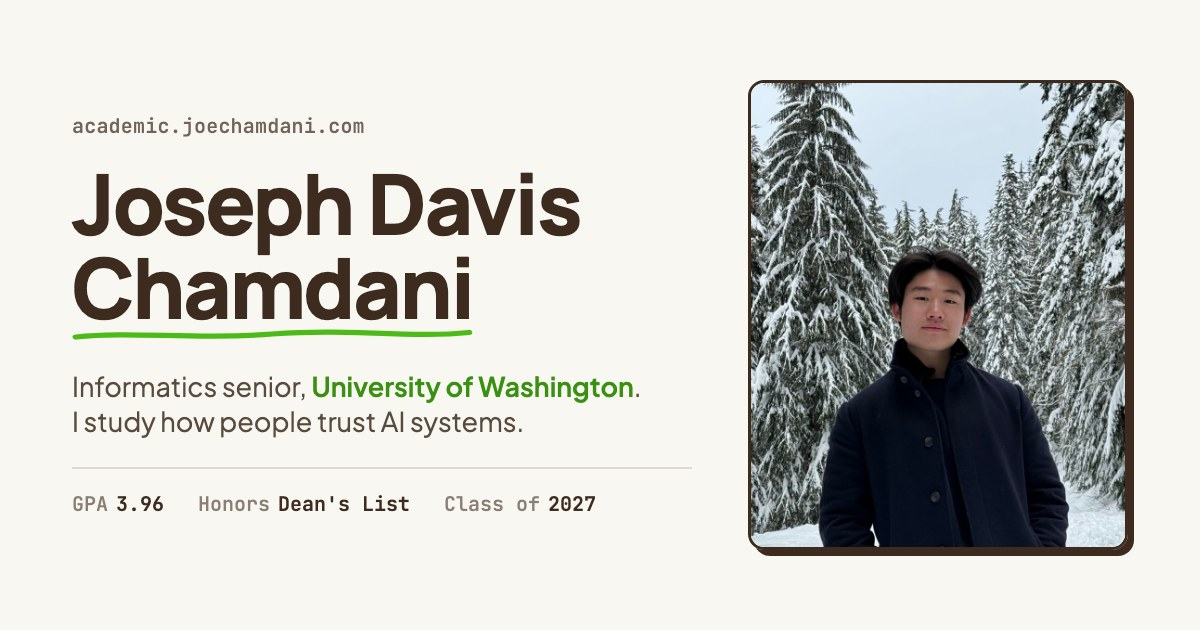
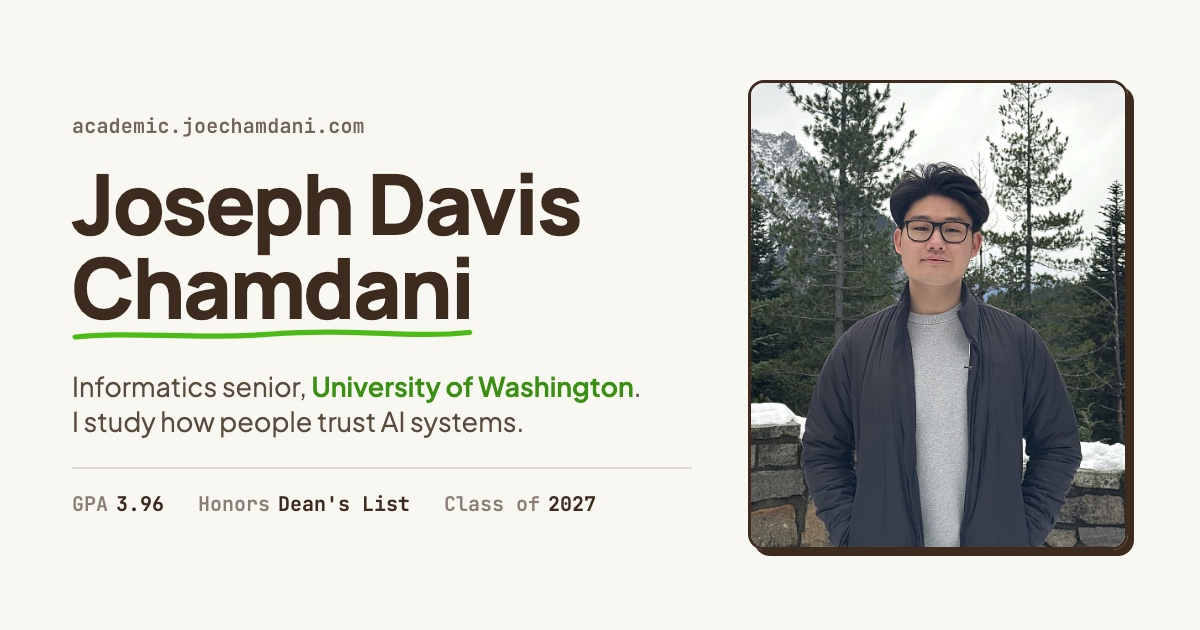
Hero and share card: new sharper portrait

Changed region(s): [[0.6167, 0.1206, 0.9558, 0.8746]]

diff --git a/index.html b/index.html
@@ -75,7 +75,7 @@
           "@type": "Person",
           "name": "Joseph Davis Chamdani",
           "alternateName": ["Joseph Chamdani", "Joe Chamdani", "Chamdani"],
-          "image": "https://academic.joechamdani.com/Joseph_Chamdani.jpg",
+          "image": "https://academic.joechamdani.com/joseph-profile.jpg",
           "url": "https://academic.joechamdani.com/",
           "mainEntityOfPage": "https://joechamdani.com/",
           "sameAs": [
@@ -228,7 +228,7 @@
           </nav>
         </header>
 
-        <section id="home" class="min-h-screen flex items-center justify-center px-6 pt-28 pb-20 relative bg-paper dark:bg-[#141B2D]"><div class="max-w-7xl w-full mx-auto relative z-10"><div class="grid lg:grid-cols-[1.25fr_1fr] gap-14 lg:gap-16 items-center"><div class="text-left" style="opacity: 1; transform: none;"><p class="font-mono text-sm text-espresso/70 dark:text-slate-400 mb-5">Academic portfolio · UW Information School</p><h1 class="text-5xl md:text-7xl font-heading font-extrabold text-espresso dark:text-slate-100 leading-[1.02] tracking-tight">Joseph Davis <span class="relative inline-block">Chamdani<svg class="absolute -bottom-2 left-0 w-full h-3" viewBox="0 0 200 12" fill="none" xmlns="http://www.w3.org/2000/svg" preserveAspectRatio="none"><path d="M2 8C30 4 60 10 100 6C140 2 170 9 198 5" class="stroke-court dark:stroke-[#60A5FA] transition-colors duration-300" stroke-width="3" stroke-linecap="round" stroke-linejoin="round"></path></svg></span></h1><p class="mt-7 text-xl md:text-2xl text-espresso/80 dark:text-slate-300 leading-snug">Informatics senior at the <a href="https://www.washington.edu" target="_blank" rel="noopener noreferrer" class="text-court-dark dark:text-[#60A5FA] hover:text-court dark:hover:text-[#93C5FD] font-semibold underline decoration-2 decoration-court/50 dark:decoration-[#60A5FA]/50 underline-offset-4 transition-colors">University of Washington</a>, Class of 2027.</p><p class="mt-4 text-lg leading-relaxed text-espresso/70 dark:text-slate-400 max-w-xl">I study how people trust AI systems, and build tools that make AI safer and institutions easier to navigate. 3.96 GPA, on the Dean's List every quarter.</p><div class="mt-9 flex flex-col sm:flex-row gap-4"><a href="#research" class="btn-brutal inline-flex items-center justify-center gap-2.5 group"><svg xmlns="http://www.w3.org/2000/svg" width="24" height="24" viewBox="0 0 24 24" fill="none" stroke="currentColor" stroke-width="2" stroke-linecap="round" stroke-linejoin="round" class="lucide lucide-flask-conical h-5 w-5 transition-transform group-hover:-rotate-12"><path d="M10 2v7.527a2 2 0 0 1-.211.896L4.72 20.55a1 1 0 0 0 .9 1.45h12.76a1 1 0 0 0 .9-1.45l-5.069-10.127A2 2 0 0 1 14 9.527V2"></path><path d="M8.5 2h7"></path><path d="M7 16h10"></path></svg>View research</a><a href="media/resume.pdf" target="_blank" rel="noopener noreferrer" class="btn-brutal-outline inline-flex items-center justify-center gap-2.5 group"><svg xmlns="http://www.w3.org/2000/svg" width="24" height="24" viewBox="0 0 24 24" fill="none" stroke="currentColor" stroke-width="2" stroke-linecap="round" stroke-linejoin="round" class="lucide lucide-download h-5 w-5 transition-transform group-hover:translate-y-0.5"><path d="M21 15v4a2 2 0 0 1-2 2H5a2 2 0 0 1-2-2v-4"></path><polyline points="7 10 12 15 17 10"></polyline><line x1="12" x2="12" y1="15" y2="3"></line></svg>Download resume</a><a href="https://orcid.org/0009-0003-3880-8443" target="_blank" rel="noopener noreferrer" class="link-underline inline-flex items-center justify-center gap-1.5 self-center px-2 font-mono text-sm font-semibold text-espresso/80 dark:text-slate-300">ORCID<svg xmlns="http://www.w3.org/2000/svg" width="24" height="24" viewBox="0 0 24 24" fill="none" stroke="currentColor" stroke-width="2" stroke-linecap="round" stroke-linejoin="round" class="lucide lucide-arrow-up-right h-4 w-4"><path d="M7 7h10v10"></path><path d="M7 17 17 7"></path></svg></a></div></div><div class="flex justify-center lg:justify-end" style="opacity: 1; transform: none;"><div class="relative"><div class="relative w-72 h-[22rem] md:w-[22rem] md:h-[27rem] rounded-xl overflow-hidden border-2 border-espresso dark:border-white/15 shadow-brutal dark:shadow-none"><img src="/Joseph_Chamdani.jpg" alt="Joseph Davis Chamdani" class="h-full w-full object-cover object-top" fetchpriority="high"></div><p class="mt-3 flex items-center gap-2 font-mono text-xs text-espresso/70 dark:text-slate-400"><img src="/logos/UW_Logo.png" alt="" class="h-5 w-5 rounded-full bg-white p-0.5">BS Informatics · Seattle, WA · 2025 to 2027</p></div></div></div></div></section>
+        <section id="home" class="min-h-screen flex items-center justify-center px-6 pt-28 pb-20 relative bg-paper dark:bg-[#141B2D]"><div class="max-w-7xl w-full mx-auto relative z-10"><div class="grid lg:grid-cols-[1.25fr_1fr] gap-14 lg:gap-16 items-center"><div class="text-left" style="opacity: 1; transform: none;"><p class="font-mono text-sm text-espresso/70 dark:text-slate-400 mb-5">Academic portfolio · UW Information School</p><h1 class="text-5xl md:text-7xl font-heading font-extrabold text-espresso dark:text-slate-100 leading-[1.02] tracking-tight">Joseph Davis <span class="relative inline-block">Chamdani<svg class="absolute -bottom-2 left-0 w-full h-3" viewBox="0 0 200 12" fill="none" xmlns="http://www.w3.org/2000/svg" preserveAspectRatio="none"><path d="M2 8C30 4 60 10 100 6C140 2 170 9 198 5" class="stroke-court dark:stroke-[#60A5FA] transition-colors duration-300" stroke-width="3" stroke-linecap="round" stroke-linejoin="round"></path></svg></span></h1><p class="mt-7 text-xl md:text-2xl text-espresso/80 dark:text-slate-300 leading-snug">Informatics senior at the <a href="https://www.washington.edu" target="_blank" rel="noopener noreferrer" class="text-court-dark dark:text-[#60A5FA] hover:text-court dark:hover:text-[#93C5FD] font-semibold underline decoration-2 decoration-court/50 dark:decoration-[#60A5FA]/50 underline-offset-4 transition-colors">University of Washington</a>, Class of 2027.</p><p class="mt-4 text-lg leading-relaxed text-espresso/70 dark:text-slate-400 max-w-xl">I study how people trust AI systems, and build tools that make AI safer and institutions easier to navigate. 3.96 GPA, on the Dean's List every quarter.</p><div class="mt-9 flex flex-col sm:flex-row gap-4"><a href="#research" class="btn-brutal inline-flex items-center justify-center gap-2.5 group"><svg xmlns="http://www.w3.org/2000/svg" width="24" height="24" viewBox="0 0 24 24" fill="none" stroke="currentColor" stroke-width="2" stroke-linecap="round" stroke-linejoin="round" class="lucide lucide-flask-conical h-5 w-5 transition-transform group-hover:-rotate-12"><path d="M10 2v7.527a2 2 0 0 1-.211.896L4.72 20.55a1 1 0 0 0 .9 1.45h12.76a1 1 0 0 0 .9-1.45l-5.069-10.127A2 2 0 0 1 14 9.527V2"></path><path d="M8.5 2h7"></path><path d="M7 16h10"></path></svg>View research</a><a href="media/resume.pdf" target="_blank" rel="noopener noreferrer" class="btn-brutal-outline inline-flex items-center justify-center gap-2.5 group"><svg xmlns="http://www.w3.org/2000/svg" width="24" height="24" viewBox="0 0 24 24" fill="none" stroke="currentColor" stroke-width="2" stroke-linecap="round" stroke-linejoin="round" class="lucide lucide-download h-5 w-5 transition-transform group-hover:translate-y-0.5"><path d="M21 15v4a2 2 0 0 1-2 2H5a2 2 0 0 1-2-2v-4"></path><polyline points="7 10 12 15 17 10"></polyline><line x1="12" x2="12" y1="15" y2="3"></line></svg>Download resume</a><a href="https://orcid.org/0009-0003-3880-8443" target="_blank" rel="noopener noreferrer" class="link-underline inline-flex items-center justify-center gap-1.5 self-center px-2 font-mono text-sm font-semibold text-espresso/80 dark:text-slate-300">ORCID<svg xmlns="http://www.w3.org/2000/svg" width="24" height="24" viewBox="0 0 24 24" fill="none" stroke="currentColor" stroke-width="2" stroke-linecap="round" stroke-linejoin="round" class="lucide lucide-arrow-up-right h-4 w-4"><path d="M7 7h10v10"></path><path d="M7 17 17 7"></path></svg></a></div></div><div class="flex justify-center lg:justify-end" style="opacity: 1; transform: none;"><div class="relative"><div class="relative w-72 h-[22rem] md:w-[22rem] md:h-[27rem] rounded-xl overflow-hidden border-2 border-espresso dark:border-white/15 shadow-brutal dark:shadow-none"><img src="/joseph-profile.jpg" alt="Joseph Davis Chamdani" class="h-full w-full object-cover object-top" fetchpriority="high"></div><p class="mt-3 flex items-center gap-2 font-mono text-xs text-espresso/70 dark:text-slate-400"><img src="/logos/UW_Logo.png" alt="" class="h-5 w-5 rounded-full bg-white p-0.5">BS Informatics · Seattle, WA · 2025 to 2027</p></div></div></div></div></section>
 
       <main id="seo-fallback">
         <h2>About</h2>

diff --git a/src/components/sections/Hero.tsx b/src/components/sections/Hero.tsx
@@ -121,7 +121,7 @@ const Hero = () => {
             >
               <div className="relative w-72 h-[22rem] md:w-[22rem] md:h-[27rem] rounded-xl overflow-hidden border-2 border-espresso dark:border-white/15 shadow-brutal dark:shadow-none">
                 <img
-                  src="/Joseph_Chamdani.jpg"
+                  src="/joseph-profile.jpg"
                   alt="Joseph Davis Chamdani"
                   className="h-full w-full object-cover object-top"
                   fetchPriority="high"

diff --git a/CHANGELOG.md b/CHANGELOG.md
@@ -6,6 +6,12 @@ All notable changes to uw.joechamdani.com, newest first. Dates are commit or mer
 
 Nothing yet.
 
+## [3.3.1] - 2026-11-24
+
+### Changed
+- New hero photo, a sharper and more recent portrait
+- The share card and the structured data image use the new photo too
+
 ## [3.3.0] - 2026-11-22
 
 ### Changed
